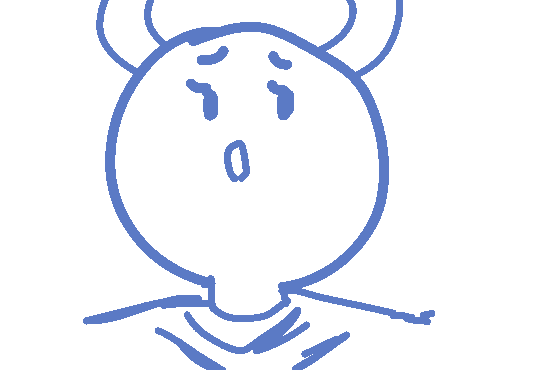
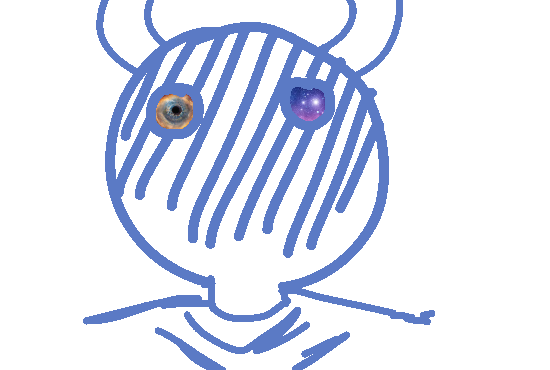
fix image order

Changed region(s): [[0.2164, 0.0892, 0.68, 0.7135], [0.6182, 0.1486, 0.6491, 0.1784]]

diff --git a/updates/update3.md b/updates/update3.md
@@ -1,4 +1,4 @@
-![A close-up of the angelic figure's face, glancing sideways.](../images/update3a.png)
+![The same close-up of the angelic figure's face, this time it looks distraught or embarassed](../images/update3a.png)
 
 "Rule 101." it booms, with an infinite, cosmic voice. "I am the holder of
 MONEYS, KARMA and the one to be SATISFIED with INTENTS or not."
@@ -7,8 +7,7 @@ MONEYS, KARMA and the one to be SATISFIED with INTENTS or not."
 "am"
 "AGORA."
 
-
-![The same close-up of the angelic figure's face, this time it looks distraught or embarassed](../images/update3b.png)
+![A close-up of the angelic figure's face, glancing sideways.](../images/update3b.png)
 
 "...Does that answer your question?" it then asks, returning to looking
 divine, but a lot less intimidatingly so. "I'm the avatar of Agora that
